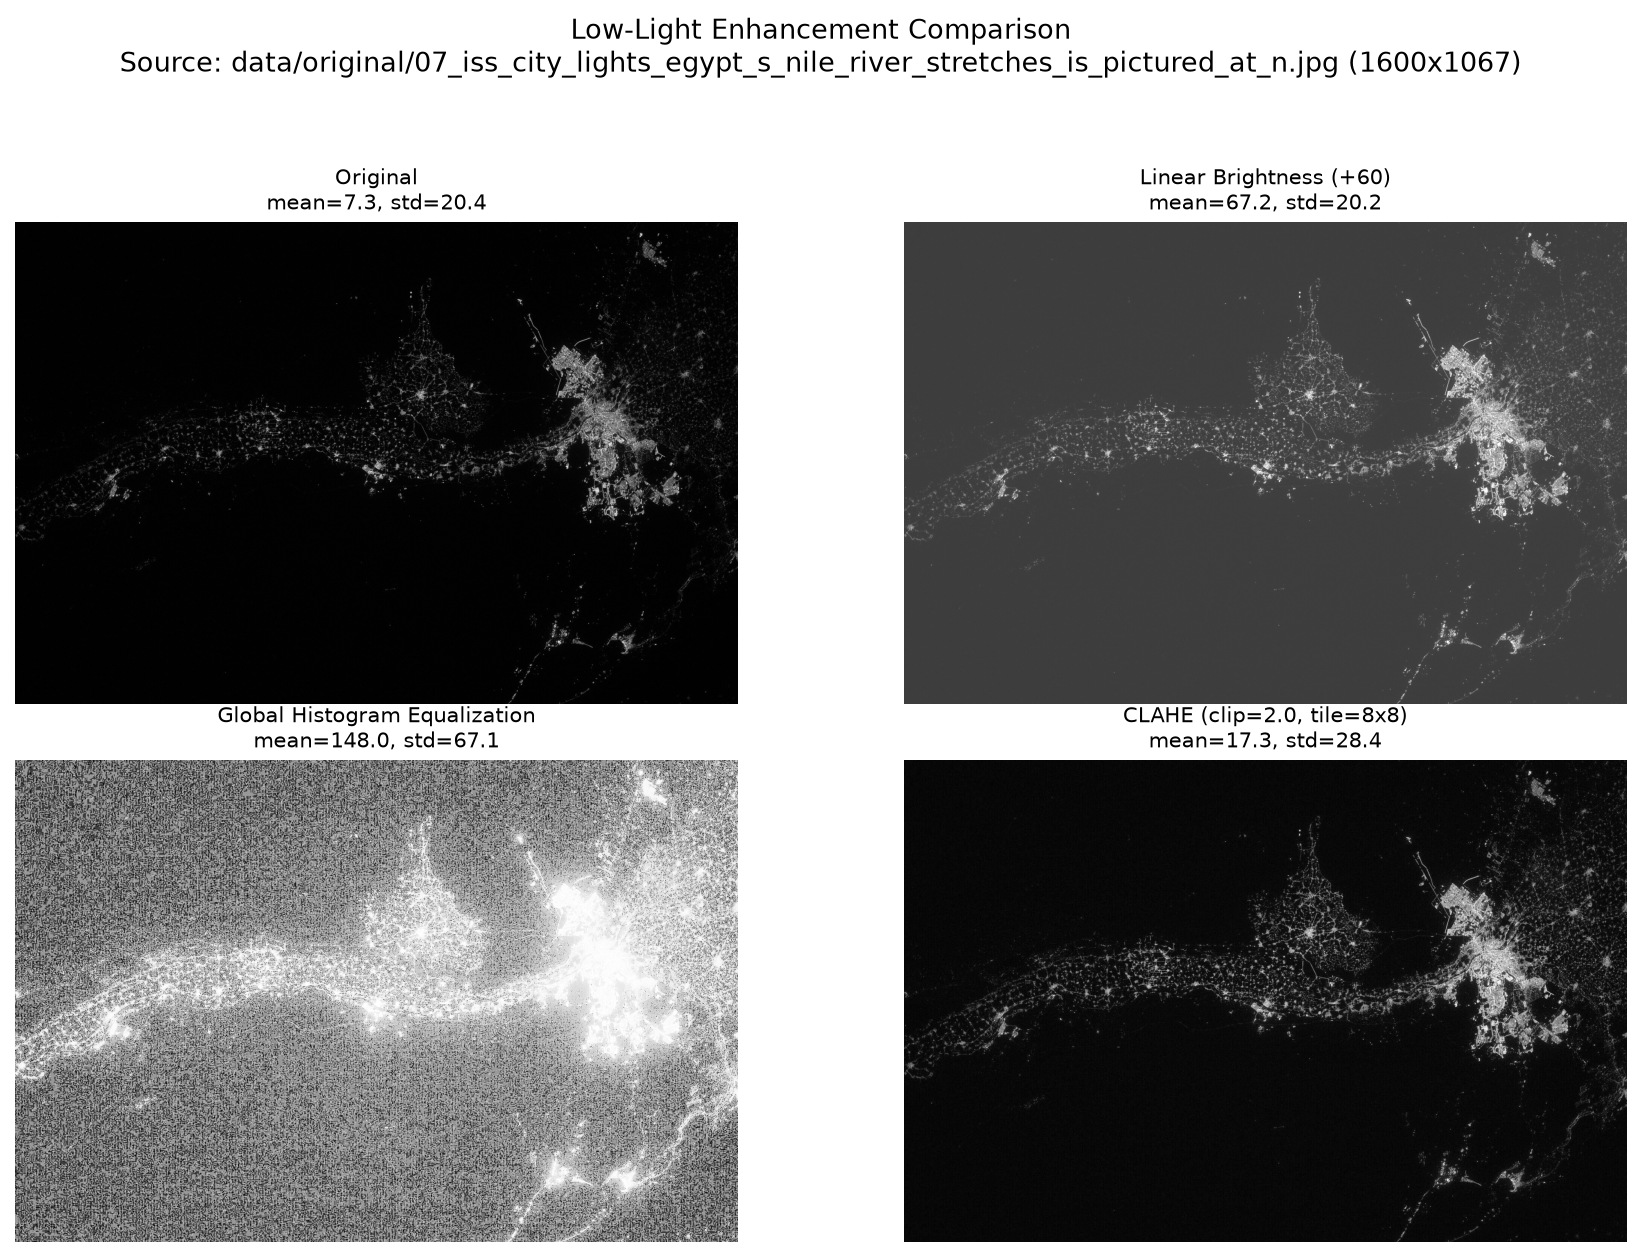
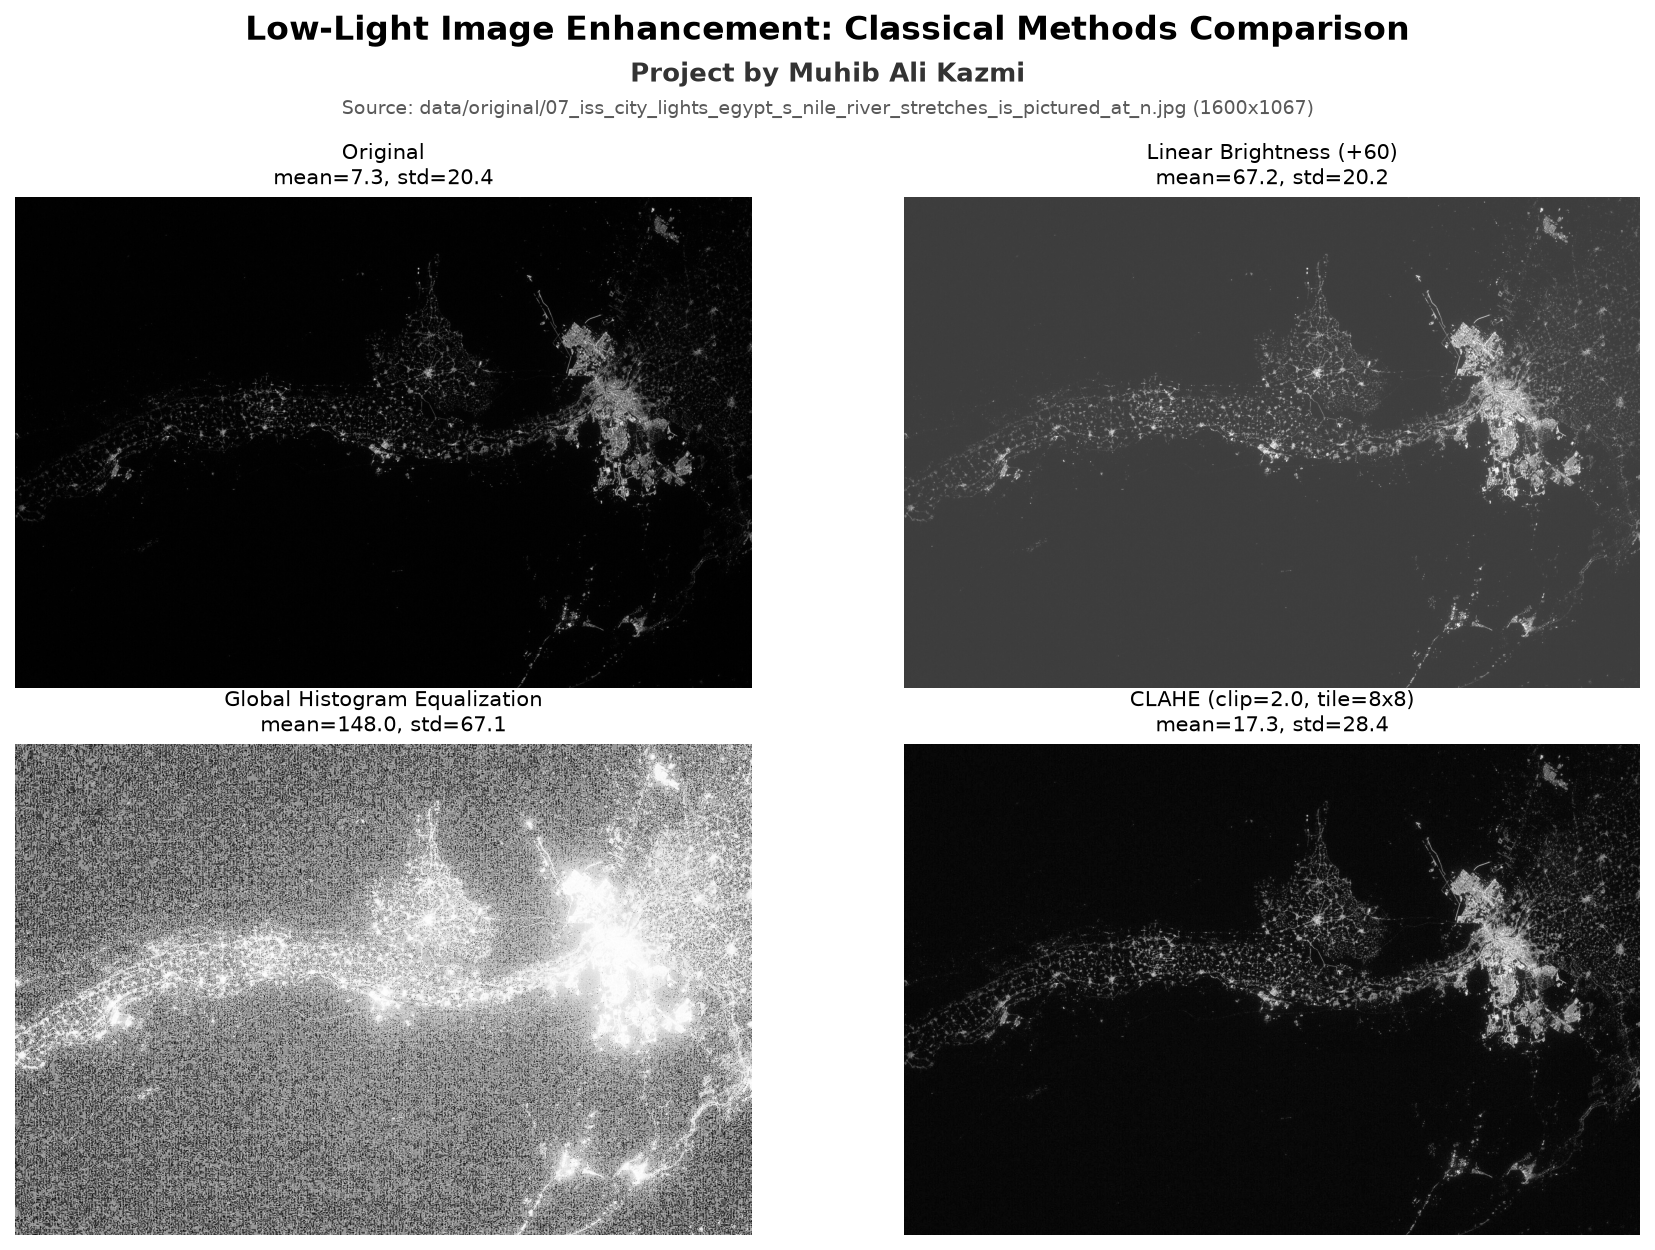
Put the project title and author on both result figures
The comparison and histogram figures now carry the report heading and
"Project by Muhib Ali Kazmi" so the exported images are self-identifying
when pasted into the assignment write-up.

diff --git a/src/lowlight_enhancement.py b/src/lowlight_enhancement.py
@@ -61,6 +61,10 @@ METHOD_NAMES = (
 # Backends that cannot open a window; used to decide whether to call plt.show().
 NON_INTERACTIVE_BACKENDS = ("agg", "pdf", "ps", "svg", "cairo", "template")
 
+# Branding printed on the comparison figure.
+PROJECT_TITLE = "Low-Light Image Enhancement: Classical Methods Comparison"
+PROJECT_AUTHOR = "Project by Muhib Ali Kazmi"
+
 
 # --------------------------------------------------------------------------- #
 # Input handling
@@ -228,7 +232,15 @@ def print_metrics(stats: dict[str, np.ndarray]) -> None:
 def plot_comparison(images: list[np.ndarray], source_label: str) -> plt.Figure:
     """Figure 1: the original and three enhanced versions, side by side."""
     fig, axes = plt.subplots(2, 2, figsize=(12, 8.5))
-    fig.suptitle(f"Low-Light Enhancement Comparison\n{source_label}", fontsize=13)
+
+    # Title block: report heading, author credit, then the input image details.
+    # Explicit y positions keep the three lines from overlapping.
+    fig.text(0.5, 0.975, PROJECT_TITLE, ha="center", va="top",
+             fontsize=16, fontweight="bold")
+    fig.text(0.5, 0.938, PROJECT_AUTHOR, ha="center", va="top",
+             fontsize=12.5, fontweight="bold", color="0.2")
+    fig.text(0.5, 0.908, source_label, ha="center", va="top",
+             fontsize=9, color="0.35")
 
     for ax, image, title in zip(axes.flat, images, METHOD_NAMES):
         ax.imshow(image, cmap="gray", vmin=0, vmax=255)
@@ -236,7 +248,7 @@ def plot_comparison(images: list[np.ndarray], source_label: str) -> plt.Figure:
                      fontsize=10)
         ax.axis("off")
 
-    fig.tight_layout(rect=(0, 0, 1, 0.94))
+    fig.tight_layout(rect=(0, 0, 1, 0.885))
     return fig
 
 
@@ -249,9 +261,19 @@ def plot_histograms(images: list[np.ndarray]) -> plt.Figure:
     """
     colors = ("#444444", "#1f77b4", "#d62728", "#2ca02c")
     fig = plt.figure(figsize=(13, 9))
-    fig.suptitle("Histogram Comparison: Conceptual Shift of Dark Pixels to the Bright Side",
-                 fontsize=13)
-    grid = fig.add_gridspec(2, 4, height_ratios=(1.0, 1.15), hspace=0.35, wspace=0.25)
+
+    # Same title block as the visual comparison, plus a subtitle describing
+    # what this figure demonstrates.
+    fig.text(0.5, 0.975, PROJECT_TITLE, ha="center", va="top",
+             fontsize=16, fontweight="bold")
+    fig.text(0.5, 0.943, PROJECT_AUTHOR, ha="center", va="top",
+             fontsize=12.5, fontweight="bold", color="0.2")
+    fig.text(0.5, 0.916,
+             "Histogram Comparison: Conceptual Shift of Dark Pixels to the Bright Side",
+             ha="center", va="top", fontsize=11, color="0.3")
+
+    grid = fig.add_gridspec(2, 4, height_ratios=(1.0, 1.15), hspace=0.35,
+                            wspace=0.25, top=0.87, bottom=0.07)
 
     # --- Row 1: one histogram per method ----------------------------------- #
     for i, (image, title, color) in enumerate(zip(images, METHOD_NAMES, colors)):
